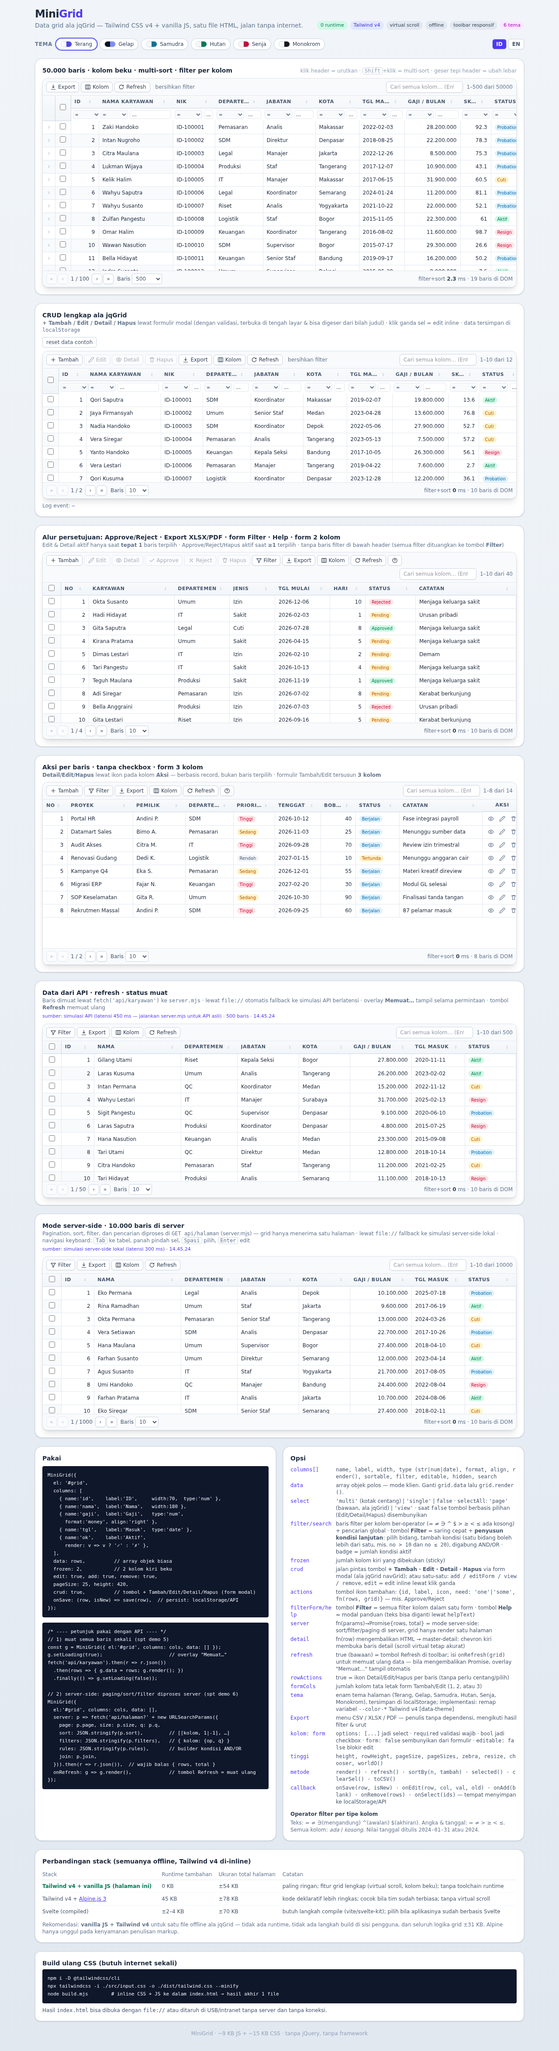
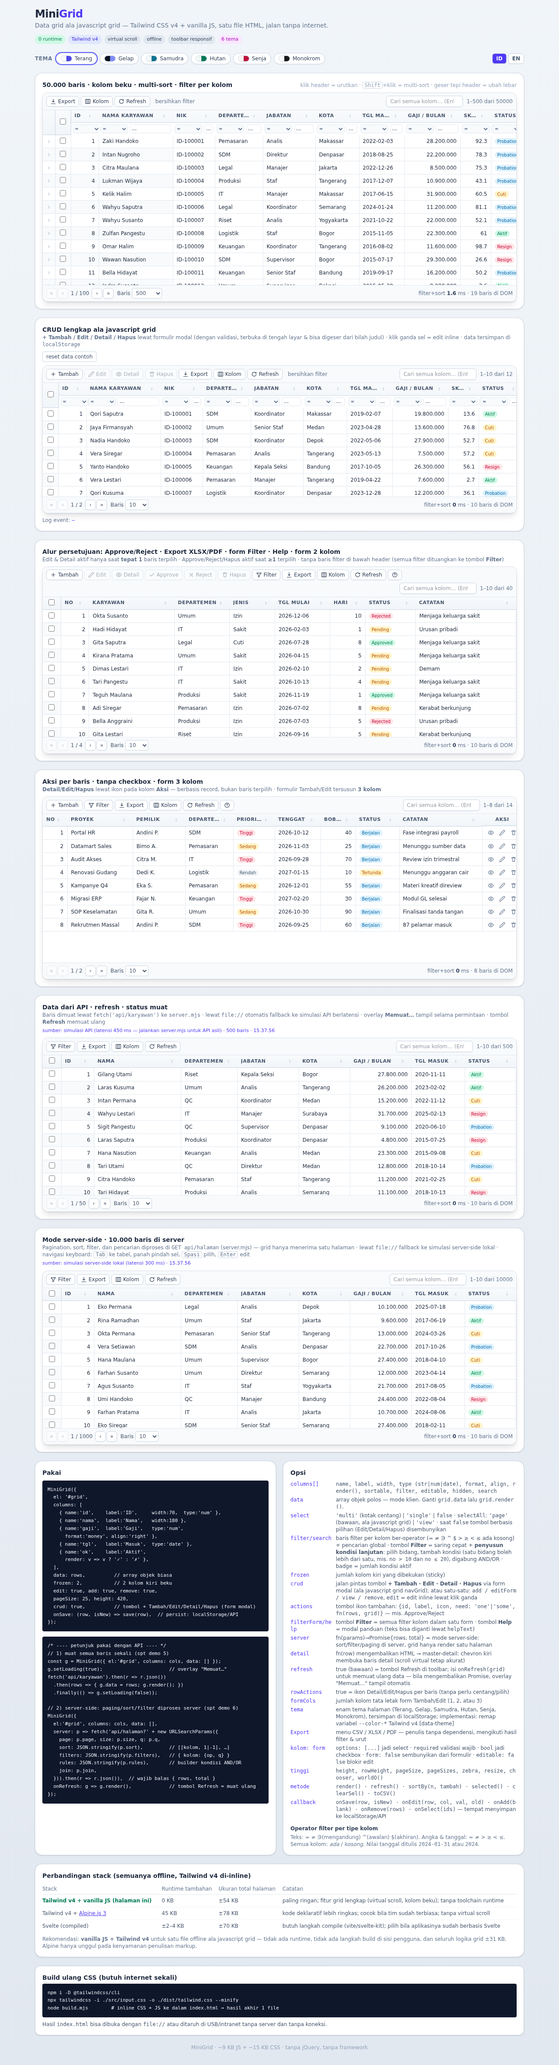
Ganti sebutan jqGrid menjadi javascript grid di seluruh UI, docs, README, dan tes

Changed region(s): [[0.0625, 0.0, 0.9375, 0.9646], [0.0625, 0.9024, 0.4375, 0.9646], [0.5312, 0.4979, 0.5938, 0.5912]]

diff --git a/index.html b/index.html
@@ -3,7 +3,7 @@
 <head>
 <meta charset="utf-8">
 <meta name="viewport" content="width=device-width, initial-scale=1">
-<title>MiniGrid — data grid offline ala jqGrid</title>
+<title>MiniGrid — data grid offline ala javascript grid</title>
 <!-- saat development pakai 2 file CSS; build.mjs meng-inline semuanya jadi 1 file offline -->
 <style>
 /*! tailwindcss v4.3.3 | MIT License | https://tailwindcss.com */
@@ -165,7 +165,7 @@ td.kb { box-shadow: inset 0 0 0 2px var(--color-indigo-600) !important; }
   <header class="flex flex-wrap items-end justify-between gap-3">
     <div>
       <h1 class="text-2xl font-extrabold tracking-tight">Mini<span class="text-indigo-600">Grid</span></h1>
-      <p data-i18n="sub" class="text-sm text-slate-500">Data grid ala jqGrid — Tailwind CSS v4 + vanilla JS, satu file HTML, jalan tanpa internet.</p>
+      <p data-i18n="sub" class="text-sm text-slate-500">Data grid ala javascript grid — Tailwind CSS v4 + vanilla JS, satu file HTML, jalan tanpa internet.</p>
     </div>
     <div class="flex flex-wrap gap-1.5 text-[11px]">
       <span class="rounded-full bg-emerald-100 px-2 py-0.5 font-medium text-emerald-700">0 runtime</span>
@@ -197,7 +197,7 @@ td.kb { box-shadow: inset 0 0 0 2px var(--color-indigo-600) !important; }
   <section class="rounded-2xl border border-slate-200 bg-white p-4 shadow-sm ring-1 ring-slate-900/5">
     <div class="mb-2 flex flex-wrap items-center justify-between gap-2">
       <div>
-        <h2 data-i18n="s2t" class="text-sm font-semibold">CRUD lengkap ala jqGrid</h2>
+        <h2 data-i18n="s2t" class="text-sm font-semibold">CRUD lengkap ala javascript grid</h2>
         <p data-i18n="s2d" class="text-xs text-slate-500"><b>+ Tambah / Edit / Detail / Hapus</b> lewat formulir modal (dengan validasi, terbuka di tengah layar & bisa digeser dari bilah judul) · klik ganda sel = edit inline · data tersimpan di <code>localStorage</code></p>
       </div>
       <button id="reset2" data-i18n="reset2" class="h-6 rounded border border-slate-300 bg-white px-2 text-xs text-slate-600 hover:bg-slate-100">reset data contoh</button>
@@ -287,10 +287,10 @@ MiniGrid({
       <dl class="space-y-1 text-xs break-words [&_code]:break-all">
         <div data-i18n="o_cols" class="flex gap-2"><dt class="w-24 shrink-0 font-mono text-indigo-600">columns[]</dt><dd class="text-slate-600">name, label, width, type (str|num|date), format, align, render(), sortable, filter, editable, hidden, search</dd></div>
         <div data-i18n="o_data" class="flex gap-2"><dt class="w-24 shrink-0 font-mono text-indigo-600">data</dt><dd class="text-slate-600">array objek — client-side. Ganti <code>grid.data</code> lalu <code>grid.render()</code>.</dd></div>
-        <div data-i18n="o_select" class="flex gap-2"><dt class="w-24 shrink-0 font-mono text-indigo-600">select</dt><dd class="text-slate-600">'multi' (checkbox) | 'single' | false · <code>selectAll</code>: 'page' (default, ala jqGrid) | 'view' · bila false, tombol berbasis seleksi (Edit/Detail/Hapus) disembunyikan</dd></div>
+        <div data-i18n="o_select" class="flex gap-2"><dt class="w-24 shrink-0 font-mono text-indigo-600">select</dt><dd class="text-slate-600">'multi' (checkbox) | 'single' | false · <code>selectAll</code>: 'page' (default, ala javascript grid) | 'view' · bila false, tombol berbasis seleksi (Edit/Detail/Hapus) disembunyikan</dd></div>
         <div data-i18n="o_filter" class="flex gap-2"><dt class="w-24 shrink-0 font-mono text-indigo-600">filter/search</dt><dd class="text-slate-600">baris filter beroperator (= ≠ ∋ ^ $ &gt; ≥ &lt; ≤ ada kosong) + pencarian global · tombol <b>Filter</b> = filter cepat + <b>builder kondisi lanjutan</b>: field dipilih, kondisi dapat ditambah (satu field boleh lebih dari satu, mis. <code>no &gt; 10</code> dan <code>no &le; 20</code>), digabung AND/OR, badge jumlah kondisi aktif</dd></div>
         <div data-i18n="o_frozen" class="flex gap-2"><dt class="w-24 shrink-0 font-mono text-indigo-600">frozen</dt><dd class="text-slate-600">jumlah kolom beku di kiri (sticky)</dd></div>
-        <div data-i18n="o_crud" class="flex gap-2"><dt class="w-24 shrink-0 font-mono text-indigo-600">crud</dt><dd class="text-slate-600">pintasan untuk tombol <b>+ Tambah · Edit · Detail · Hapus</b> berbasis formulir modal (navGrid ala jqGrid); atau satuan: <code>add / editForm / view / remove</code>, <code>edit</code> = edit inline via klik ganda</dd></div>
+        <div data-i18n="o_crud" class="flex gap-2"><dt class="w-24 shrink-0 font-mono text-indigo-600">crud</dt><dd class="text-slate-600">pintasan untuk tombol <b>+ Tambah · Edit · Detail · Hapus</b> berbasis formulir modal (navGrid ala javascript grid); atau satuan: <code>add / editForm / view / remove</code>, <code>edit</code> = edit inline via klik ganda</dd></div>
         <div data-i18n="o_actions" class="flex gap-2"><dt class="w-24 shrink-0 font-mono text-indigo-600">actions</dt><dd class="text-slate-600">tombol kustom berikon: <code>{id,label,icon,need:'one'|'some',fn(rows,grid)}</code> — mis. Approve/Reject</dd></div>
         <div data-i18n="o_ff" class="flex gap-2"><dt class="w-24 shrink-0 font-mono text-indigo-600">filterForm/help</dt><dd class="text-slate-600">tombol <b>Filter</b> = semua filter kolom dalam satu form · tombol <b>Help</b> = modal panduan (teks bisa diganti via <code>helpText</code>)</dd></div>
         <div data-i18n="o_server" class="flex gap-2"><dt class="w-24 shrink-0 font-mono text-indigo-600">server</dt><dd class="text-slate-600">fn(params)→Promise{rows,total} = mode server-side: sort/filter/paging di server, grid hanya merender satu halaman</dd></div>
@@ -322,7 +322,7 @@ MiniGrid({
         <tr><td data-i18n="cmpA3" class="py-1.5 pr-2">Svelte (compiled)</td><td class="pr-2">±2–4 KB</td><td class="pr-2">±70 KB</td><td>butuh langkah compile (vite/svelte-kit); pilih bila aplikasinya sudah berbasis Svelte</td></tr>
       </tbody>
     </table>
-    <p data-i18n="cmpR" class="mt-2 text-xs text-slate-500">Rekomendasi: <b>vanilla JS + Tailwind v4</b> untuk satu file offline ala jqGrid — tidak ada runtime, tidak ada langkah build di sisi pengguna, dan seluruh logika grid ±31 KB. Alpine hanya unggul pada kenyamanan penulisan markup.</p>
+    <p data-i18n="cmpR" class="mt-2 text-xs text-slate-500">Rekomendasi: <b>vanilla JS + Tailwind v4</b> untuk satu file offline ala javascript grid — tidak ada runtime, tidak ada langkah build di sisi pengguna, dan seluruh logika grid ±31 KB. Alpine hanya unggul pada kenyamanan penulisan markup.</p>
   </section>
 
   <section class="rounded-xl border border-slate-300 bg-white p-4 text-xs text-slate-600 shadow-sm">
@@ -338,7 +338,7 @@ node build.mjs        # inline CSS + JS ke dalam index.html → hasil akhir 1 fi
 
 <script>
 /* ============================================================================
- * minigrid.js — data grid ala jqGrid · vanilla JS · 0 dependency
+ * minigrid.js — data grid ala javascript grid · vanilla JS · 0 dependency
  * sort multi-kolom · filter per kolom beroperator · pencarian global · pager
  * virtual scroll · kolom beku · pilih baris · resize kolom · edit inline
  * tambah/hapus · pilih kolom · ekspor CSV
@@ -747,7 +747,7 @@ node build.mjs        # inline CSS + JS ke dalam index.html → hasil akhir 1 fi
     var self = this, s = this.s;
     var all = this.r.head.querySelector('[data-role=all]');
     if (all) all.onchange = function () {
-      /* 'page' = baris di halaman aktif saja (ala jqGrid), 'view' = semua hasil filter */
+      /* 'page' = baris di halaman aktif saja (ala javascript grid), 'view' = semua hasil filter */
       var list = self.o.selectAll === 'view' ? self.view : self.pageRows;
       if (all.checked) list.forEach(function (r, i) { s.sel.add(self.idOf(r, i)); });
       else list.forEach(function (r, i) { s.sel.delete(self.idOf(r, i)); });
@@ -2216,11 +2216,11 @@ node build.mjs        # inline CSS + JS ke dalam index.html → hasil akhir 1 fi
 
   /* ---- dua bahasa: ID / EN (tersimpan di localStorage) ---- */
   var PAGE = {
-    sub: { id: `Data grid ala jqGrid — Tailwind CSS v4 + vanilla JS, satu file HTML, jalan tanpa internet.`, en: `A jqGrid-style data grid — Tailwind CSS v4 + vanilla JS, single HTML file, runs offline.` },
+    sub: { id: `Data grid ala javascript grid — Tailwind CSS v4 + vanilla JS, satu file HTML, jalan tanpa internet.`, en: `A javascript grid-style data grid — Tailwind CSS v4 + vanilla JS, single HTML file, runs offline.` },
     theme: { id: `Tema`, en: `Theme` },
     s1t: { id: `50.000 baris · kolom beku · multi-sort · filter per kolom`, en: `50,000 rows · frozen columns · multi-sort · per-column filters` },
     s1d: { id: `klik header = urutkan · <kbd class="rounded border border-slate-300 px-1">Shift</kbd>+klik = multi-sort · geser tepi header = ubah lebar`, en: `click a header = sort · <kbd class="rounded border border-slate-300 px-1">Shift</kbd>+click = multi-sort · drag the header edge = resize` },
-    s2t: { id: `CRUD lengkap ala jqGrid`, en: `Full jqGrid-style CRUD` },
+    s2t: { id: `CRUD lengkap ala javascript grid`, en: `Full javascript grid-style CRUD` },
     s2d: { id: `<b>+ Tambah / Edit / Detail / Hapus</b> lewat formulir modal (dengan validasi, terbuka di tengah layar & bisa digeser dari bilah judul) · klik ganda sel = edit inline · data tersimpan di <code>localStorage</code>`, en: `<b>+ Add / Edit / View / Delete</b> via modal forms (validated, centered, draggable by the title bar) · double-click a cell = inline edit · data persisted in <code>localStorage</code>` },
     reset2: { id: `reset data contoh`, en: `reset sample data` },
     s3t: { id: `Alur persetujuan: Approve/Reject · Export XLSX/PDF · form Filter · Help · form 2 kolom`, en: `Approval flow: Approve/Reject · XLSX/PDF export · Filter form · Help · 2-column form` },
@@ -2235,10 +2235,10 @@ node build.mjs        # inline CSS + JS ke dalam index.html → hasil akhir 1 fi
     dOpsi: { id: `Opsi`, en: `Options` },
     o_cols: { id: `<dt class="w-24 shrink-0 font-mono text-indigo-600">columns[]</dt><dd class="text-slate-600"><code>name, label, width, type (str|num|date), format, align, render(), sortable, filter, editable, hidden, search</code></dd>`, en: `<dt class="w-24 shrink-0 font-mono text-indigo-600">columns[]</dt><dd class="text-slate-600"><code>name, label, width, type (str|num|date), format, align, render(), sortable, filter, editable, hidden, search</code></dd>` },
     o_data: { id: `<dt class="w-24 shrink-0 font-mono text-indigo-600">data</dt><dd class="text-slate-600">array objek polos — mode klien. Ganti <code>grid.data</code> lalu <code>grid.render()</code>.</dd>`, en: `<dt class="w-24 shrink-0 font-mono text-indigo-600">data</dt><dd class="text-slate-600">plain array of objects — client mode. Replace <code>grid.data</code> then <code>grid.render()</code>.</dd>` },
-    o_select: { id: `<dt class="w-24 shrink-0 font-mono text-indigo-600">select</dt><dd class="text-slate-600"><code>'multi'</code> (kotak centang) | <code>'single'</code> | <code>false</code> · <code>selectAll</code>: <code>'page'</code> (bawaan, ala jqGrid) | <code>'view'</code> · saat <code>false</code> tombol berbasis pilihan (Edit/Detail/Hapus) disembunyikan</dd>`, en: `<dt class="w-24 shrink-0 font-mono text-indigo-600">select</dt><dd class="text-slate-600"><code>'multi'</code> (checkboxes) | <code>'single'</code> | <code>false</code> · <code>selectAll</code>: <code>'page'</code> (default, jqGrid-style) | <code>'view'</code> · when <code>false</code>, selection-based buttons (Edit/View/Delete) are hidden</dd>` },
+    o_select: { id: `<dt class="w-24 shrink-0 font-mono text-indigo-600">select</dt><dd class="text-slate-600"><code>'multi'</code> (kotak centang) | <code>'single'</code> | <code>false</code> · <code>selectAll</code>: <code>'page'</code> (bawaan, ala javascript grid) | <code>'view'</code> · saat <code>false</code> tombol berbasis pilihan (Edit/Detail/Hapus) disembunyikan</dd>`, en: `<dt class="w-24 shrink-0 font-mono text-indigo-600">select</dt><dd class="text-slate-600"><code>'multi'</code> (checkboxes) | <code>'single'</code> | <code>false</code> · <code>selectAll</code>: <code>'page'</code> (default, javascript grid-style) | <code>'view'</code> · when <code>false</code>, selection-based buttons (Edit/View/Delete) are hidden</dd>` },
     o_filter: { id: `<dt class="w-24 shrink-0 font-mono text-indigo-600">filter/search</dt><dd class="text-slate-600">baris filter per kolom ber-operator (= ≠ ∋ ^ $ &gt; ≥ &lt; ≤ ada kosong) + pencarian global · tombol <b>Filter</b> = saring cepat + <b>penyusun kondisi lanjutan</b>: pilih bidang, tambah kondisi (satu bidang boleh lebih dari satu, mis. <code>no &gt; 10</code> dan <code>no ≤ 20</code>), digabung AND/OR · badge = jumlah kondisi aktif</dd>`, en: `<dt class="w-24 shrink-0 font-mono text-indigo-600">filter/search</dt><dd class="text-slate-600">operator filter row per column (= ≠ ∋ ^ $ &gt; ≥ &lt; ≤ present empty) + global search · <b>Filter</b> button = quick filters + <b>advanced condition builder</b>: pick a field, add conditions (a field may appear twice, e.g. <code>no &gt; 10</code> and <code>no ≤ 20</code>), joined with AND/OR · badge = active condition count</dd>` },
     o_frozen: { id: `<dt class="w-24 shrink-0 font-mono text-indigo-600">frozen</dt><dd class="text-slate-600">jumlah kolom kiri yang dibekukan (sticky)</dd>`, en: `<dt class="w-24 shrink-0 font-mono text-indigo-600">frozen</dt><dd class="text-slate-600">number of frozen (sticky) columns on the left</dd>` },
-    o_crud: { id: `<dt class="w-24 shrink-0 font-mono text-indigo-600">crud</dt><dd class="text-slate-600">jalan pintas tombol <b>+ Tambah · Edit · Detail · Hapus</b> via form modal (ala jqGrid navGrid); atau satu-satu: <code>add / editForm / view / remove</code>, <code>edit</code> = edit inline lewat klik ganda</dd>`, en: `<dt class="w-24 shrink-0 font-mono text-indigo-600">crud</dt><dd class="text-slate-600">shortcut for <b>+ Add · Edit · View · Delete</b> buttons via modal forms (jqGrid navGrid-style); or individually: <code>add / editForm / view / remove</code>, <code>edit</code> = inline edit via double-click</dd>` },
+    o_crud: { id: `<dt class="w-24 shrink-0 font-mono text-indigo-600">crud</dt><dd class="text-slate-600">jalan pintas tombol <b>+ Tambah · Edit · Detail · Hapus</b> via form modal (ala javascript grid navGrid); atau satu-satu: <code>add / editForm / view / remove</code>, <code>edit</code> = edit inline lewat klik ganda</dd>`, en: `<dt class="w-24 shrink-0 font-mono text-indigo-600">crud</dt><dd class="text-slate-600">shortcut for <b>+ Add · Edit · View · Delete</b> buttons via modal forms (javascript grid navGrid-style); or individually: <code>add / editForm / view / remove</code>, <code>edit</code> = inline edit via double-click</dd>` },
     o_actions: { id: `<dt class="w-24 shrink-0 font-mono text-indigo-600">actions</dt><dd class="text-slate-600">tombol ikon tambahan: <code>{id, label, icon, need: 'one'|'some', fn(rows, grid)}</code> — mis. Approve/Reject</dd>`, en: `<dt class="w-24 shrink-0 font-mono text-indigo-600">actions</dt><dd class="text-slate-600">extra icon buttons: <code>{id, label, icon, need: 'one'|'some', fn(rows, grid)}</code> — e.g. Approve/Reject</dd>` },
     o_ff: { id: `<dt class="w-24 shrink-0 font-mono text-indigo-600">filterForm/help</dt><dd class="text-slate-600">tombol <b>Filter</b> = semua filter kolom dalam satu form · tombol <b>Help</b> = modal panduan (teks bisa diganti lewat <code>helpText</code>)</dd>`, en: `<dt class="w-24 shrink-0 font-mono text-indigo-600">filterForm/help</dt><dd class="text-slate-600"><b>Filter</b> button = every column filter in one form · <b>Help</b> button = guide modal (replace the text via <code>helpText</code>)</dd>` },
     o_refresh: { id: `<dt class="w-24 shrink-0 font-mono text-indigo-600">refresh</dt><dd class="text-slate-600">true (bawaan) = tombol Refresh di toolbar; isi <code>onRefresh(grid)</code> untuk memuat ulang data — bila mengembalikan Promise, overlay "Memuat…" tampil otomatis</dd>`, en: `<dt class="w-24 shrink-0 font-mono text-indigo-600">refresh</dt><dd class="text-slate-600">true (default) = toolbar Refresh button; provide <code>onRefresh(grid)</code> to reload — return a Promise and the "Loading…" overlay shows automatically</dd>` },
@@ -2262,7 +2262,7 @@ node build.mjs        # inline CSS + JS ke dalam index.html → hasil akhir 1 fi
     cmpA1: { id: `Tailwind v4 + vanilla JS (halaman ini)`, en: `Tailwind v4 + vanilla JS (this page)` },
     cmpA2: { id: `Tailwind v4 + <a class="text-indigo-600 underline" href="./alpine.html">Alpine.js 3</a>`, en: `Tailwind v4 + <a class="text-indigo-600 underline" href="./alpine.html">Alpine.js 3</a>` },
     cmpA3: { id: `Svelte (compiled)`, en: `Svelte (compiled)` },
-    cmpR: { id: `Rekomendasi: <b>vanilla JS + Tailwind v4</b> untuk satu file offline ala jqGrid — tidak ada runtime, tidak ada langkah build di sisi pengguna, dan seluruh logika grid ±31 KB. Alpine hanya unggul pada kenyamanan penulisan markup.`, en: `Recommendation: <b>vanilla JS + Tailwind v4</b> for a jqGrid-style offline single file — no runtime, no user-side build step, and the entire grid logic is ±31 KB. Alpine only wins on markup-writing comfort.` },
+    cmpR: { id: `Rekomendasi: <b>vanilla JS + Tailwind v4</b> untuk satu file offline ala javascript grid — tidak ada runtime, tidak ada langkah build di sisi pengguna, dan seluruh logika grid ±31 KB. Alpine hanya unggul pada kenyamanan penulisan markup.`, en: `Recommendation: <b>vanilla JS + Tailwind v4</b> for a javascript grid-style offline single file — no runtime, no user-side build step, and the entire grid logic is ±31 KB. Alpine only wins on markup-writing comfort.` },
     bT: { id: `Build ulang CSS (butuh internet sekali)`, en: `Rebuilding the CSS (needs internet once)` },
     bD: { id: `Hasil <code>index.html</code> bisa dibuka dengan <code>file://</code> atau ditaruh di USB/intranet tanpa server dan tanpa koneksi.`, en: `The resulting <code>index.html</code> opens via <code>file://</code> or can live on a USB stick/intranet with no server and no connection.` },
     foot: { id: `MiniGrid · ~9 KB JS + ~15 KB CSS · tanpa jQuery, tanpa framework`, en: `MiniGrid · ~9 KB JS + ~15 KB CSS · no jQuery, no framework` }

diff --git a/src/demo.js b/src/demo.js
@@ -420,11 +420,11 @@
 
   /* ---- dua bahasa: ID / EN (tersimpan di localStorage) ---- */
   var PAGE = {
-    sub: { id: `Data grid ala jqGrid — Tailwind CSS v4 + vanilla JS, satu file HTML, jalan tanpa internet.`, en: `A jqGrid-style data grid — Tailwind CSS v4 + vanilla JS, single HTML file, runs offline.` },
+    sub: { id: `Data grid ala javascript grid — Tailwind CSS v4 + vanilla JS, satu file HTML, jalan tanpa internet.`, en: `A javascript grid-style data grid — Tailwind CSS v4 + vanilla JS, single HTML file, runs offline.` },
     theme: { id: `Tema`, en: `Theme` },
     s1t: { id: `50.000 baris · kolom beku · multi-sort · filter per kolom`, en: `50,000 rows · frozen columns · multi-sort · per-column filters` },
     s1d: { id: `klik header = urutkan · <kbd class="rounded border border-slate-300 px-1">Shift</kbd>+klik = multi-sort · geser tepi header = ubah lebar`, en: `click a header = sort · <kbd class="rounded border border-slate-300 px-1">Shift</kbd>+click = multi-sort · drag the header edge = resize` },
-    s2t: { id: `CRUD lengkap ala jqGrid`, en: `Full jqGrid-style CRUD` },
+    s2t: { id: `CRUD lengkap ala javascript grid`, en: `Full javascript grid-style CRUD` },
     s2d: { id: `<b>+ Tambah / Edit / Detail / Hapus</b> lewat formulir modal (dengan validasi, terbuka di tengah layar & bisa digeser dari bilah judul) · klik ganda sel = edit inline · data tersimpan di <code>localStorage</code>`, en: `<b>+ Add / Edit / View / Delete</b> via modal forms (validated, centered, draggable by the title bar) · double-click a cell = inline edit · data persisted in <code>localStorage</code>` },
     reset2: { id: `reset data contoh`, en: `reset sample data` },
     s3t: { id: `Alur persetujuan: Approve/Reject · Export XLSX/PDF · form Filter · Help · form 2 kolom`, en: `Approval flow: Approve/Reject · XLSX/PDF export · Filter form · Help · 2-column form` },
@@ -439,10 +439,10 @@
     dOpsi: { id: `Opsi`, en: `Options` },
     o_cols: { id: `<dt class="w-24 shrink-0 font-mono text-indigo-600">columns[]</dt><dd class="text-slate-600"><code>name, label, width, type (str|num|date), format, align, render(), sortable, filter, editable, hidden, search</code></dd>`, en: `<dt class="w-24 shrink-0 font-mono text-indigo-600">columns[]</dt><dd class="text-slate-600"><code>name, label, width, type (str|num|date), format, align, render(), sortable, filter, editable, hidden, search</code></dd>` },
     o_data: { id: `<dt class="w-24 shrink-0 font-mono text-indigo-600">data</dt><dd class="text-slate-600">array objek polos — mode klien. Ganti <code>grid.data</code> lalu <code>grid.render()</code>.</dd>`, en: `<dt class="w-24 shrink-0 font-mono text-indigo-600">data</dt><dd class="text-slate-600">plain array of objects — client mode. Replace <code>grid.data</code> then <code>grid.render()</code>.</dd>` },
-    o_select: { id: `<dt class="w-24 shrink-0 font-mono text-indigo-600">select</dt><dd class="text-slate-600"><code>'multi'</code> (kotak centang) | <code>'single'</code> | <code>false</code> · <code>selectAll</code>: <code>'page'</code> (bawaan, ala jqGrid) | <code>'view'</code> · saat <code>false</code> tombol berbasis pilihan (Edit/Detail/Hapus) disembunyikan</dd>`, en: `<dt class="w-24 shrink-0 font-mono text-indigo-600">select</dt><dd class="text-slate-600"><code>'multi'</code> (checkboxes) | <code>'single'</code> | <code>false</code> · <code>selectAll</code>: <code>'page'</code> (default, jqGrid-style) | <code>'view'</code> · when <code>false</code>, selection-based buttons (Edit/View/Delete) are hidden</dd>` },
+    o_select: { id: `<dt class="w-24 shrink-0 font-mono text-indigo-600">select</dt><dd class="text-slate-600"><code>'multi'</code> (kotak centang) | <code>'single'</code> | <code>false</code> · <code>selectAll</code>: <code>'page'</code> (bawaan, ala javascript grid) | <code>'view'</code> · saat <code>false</code> tombol berbasis pilihan (Edit/Detail/Hapus) disembunyikan</dd>`, en: `<dt class="w-24 shrink-0 font-mono text-indigo-600">select</dt><dd class="text-slate-600"><code>'multi'</code> (checkboxes) | <code>'single'</code> | <code>false</code> · <code>selectAll</code>: <code>'page'</code> (default, javascript grid-style) | <code>'view'</code> · when <code>false</code>, selection-based buttons (Edit/View/Delete) are hidden</dd>` },
     o_filter: { id: `<dt class="w-24 shrink-0 font-mono text-indigo-600">filter/search</dt><dd class="text-slate-600">baris filter per kolom ber-operator (= ≠ ∋ ^ $ &gt; ≥ &lt; ≤ ada kosong) + pencarian global · tombol <b>Filter</b> = saring cepat + <b>penyusun kondisi lanjutan</b>: pilih bidang, tambah kondisi (satu bidang boleh lebih dari satu, mis. <code>no &gt; 10</code> dan <code>no ≤ 20</code>), digabung AND/OR · badge = jumlah kondisi aktif</dd>`, en: `<dt class="w-24 shrink-0 font-mono text-indigo-600">filter/search</dt><dd class="text-slate-600">operator filter row per column (= ≠ ∋ ^ $ &gt; ≥ &lt; ≤ present empty) + global search · <b>Filter</b> button = quick filters + <b>advanced condition builder</b>: pick a field, add conditions (a field may appear twice, e.g. <code>no &gt; 10</code> and <code>no ≤ 20</code>), joined with AND/OR · badge = active condition count</dd>` },
     o_frozen: { id: `<dt class="w-24 shrink-0 font-mono text-indigo-600">frozen</dt><dd class="text-slate-600">jumlah kolom kiri yang dibekukan (sticky)</dd>`, en: `<dt class="w-24 shrink-0 font-mono text-indigo-600">frozen</dt><dd class="text-slate-600">number of frozen (sticky) columns on the left</dd>` },
-    o_crud: { id: `<dt class="w-24 shrink-0 font-mono text-indigo-600">crud</dt><dd class="text-slate-600">jalan pintas tombol <b>+ Tambah · Edit · Detail · Hapus</b> via form modal (ala jqGrid navGrid); atau satu-satu: <code>add / editForm / view / remove</code>, <code>edit</code> = edit inline lewat klik ganda</dd>`, en: `<dt class="w-24 shrink-0 font-mono text-indigo-600">crud</dt><dd class="text-slate-600">shortcut for <b>+ Add · Edit · View · Delete</b> buttons via modal forms (jqGrid navGrid-style); or individually: <code>add / editForm / view / remove</code>, <code>edit</code> = inline edit via double-click</dd>` },
+    o_crud: { id: `<dt class="w-24 shrink-0 font-mono text-indigo-600">crud</dt><dd class="text-slate-600">jalan pintas tombol <b>+ Tambah · Edit · Detail · Hapus</b> via form modal (ala javascript grid navGrid); atau satu-satu: <code>add / editForm / view / remove</code>, <code>edit</code> = edit inline lewat klik ganda</dd>`, en: `<dt class="w-24 shrink-0 font-mono text-indigo-600">crud</dt><dd class="text-slate-600">shortcut for <b>+ Add · Edit · View · Delete</b> buttons via modal forms (javascript grid navGrid-style); or individually: <code>add / editForm / view / remove</code>, <code>edit</code> = inline edit via double-click</dd>` },
     o_actions: { id: `<dt class="w-24 shrink-0 font-mono text-indigo-600">actions</dt><dd class="text-slate-600">tombol ikon tambahan: <code>{id, label, icon, need: 'one'|'some', fn(rows, grid)}</code> — mis. Approve/Reject</dd>`, en: `<dt class="w-24 shrink-0 font-mono text-indigo-600">actions</dt><dd class="text-slate-600">extra icon buttons: <code>{id, label, icon, need: 'one'|'some', fn(rows, grid)}</code> — e.g. Approve/Reject</dd>` },
     o_ff: { id: `<dt class="w-24 shrink-0 font-mono text-indigo-600">filterForm/help</dt><dd class="text-slate-600">tombol <b>Filter</b> = semua filter kolom dalam satu form · tombol <b>Help</b> = modal panduan (teks bisa diganti lewat <code>helpText</code>)</dd>`, en: `<dt class="w-24 shrink-0 font-mono text-indigo-600">filterForm/help</dt><dd class="text-slate-600"><b>Filter</b> button = every column filter in one form · <b>Help</b> button = guide modal (replace the text via <code>helpText</code>)</dd>` },
     o_refresh: { id: `<dt class="w-24 shrink-0 font-mono text-indigo-600">refresh</dt><dd class="text-slate-600">true (bawaan) = tombol Refresh di toolbar; isi <code>onRefresh(grid)</code> untuk memuat ulang data — bila mengembalikan Promise, overlay "Memuat…" tampil otomatis</dd>`, en: `<dt class="w-24 shrink-0 font-mono text-indigo-600">refresh</dt><dd class="text-slate-600">true (default) = toolbar Refresh button; provide <code>onRefresh(grid)</code> to reload — return a Promise and the "Loading…" overlay shows automatically</dd>` },
@@ -466,7 +466,7 @@
     cmpA1: { id: `Tailwind v4 + vanilla JS (halaman ini)`, en: `Tailwind v4 + vanilla JS (this page)` },
     cmpA2: { id: `Tailwind v4 + <a class="text-indigo-600 underline" href="./alpine.html">Alpine.js 3</a>`, en: `Tailwind v4 + <a class="text-indigo-600 underline" href="./alpine.html">Alpine.js 3</a>` },
     cmpA3: { id: `Svelte (compiled)`, en: `Svelte (compiled)` },
-    cmpR: { id: `Rekomendasi: <b>vanilla JS + Tailwind v4</b> untuk satu file offline ala jqGrid — tidak ada runtime, tidak ada langkah build di sisi pengguna, dan seluruh logika grid ±31 KB. Alpine hanya unggul pada kenyamanan penulisan markup.`, en: `Recommendation: <b>vanilla JS + Tailwind v4</b> for a jqGrid-style offline single file — no runtime, no user-side build step, and the entire grid logic is ±31 KB. Alpine only wins on markup-writing comfort.` },
+    cmpR: { id: `Rekomendasi: <b>vanilla JS + Tailwind v4</b> untuk satu file offline ala javascript grid — tidak ada runtime, tidak ada langkah build di sisi pengguna, dan seluruh logika grid ±31 KB. Alpine hanya unggul pada kenyamanan penulisan markup.`, en: `Recommendation: <b>vanilla JS + Tailwind v4</b> for a javascript grid-style offline single file — no runtime, no user-side build step, and the entire grid logic is ±31 KB. Alpine only wins on markup-writing comfort.` },
     bT: { id: `Build ulang CSS (butuh internet sekali)`, en: `Rebuilding the CSS (needs internet once)` },
     bD: { id: `Hasil <code>index.html</code> bisa dibuka dengan <code>file://</code> atau ditaruh di USB/intranet tanpa server dan tanpa koneksi.`, en: `The resulting <code>index.html</code> opens via <code>file://</code> or can live on a USB stick/intranet with no server and no connection.` },
     foot: { id: `MiniGrid · ~9 KB JS + ~15 KB CSS · tanpa jQuery, tanpa framework`, en: `MiniGrid · ~9 KB JS + ~15 KB CSS · no jQuery, no framework` }

diff --git a/src/index.html b/src/index.html
@@ -3,7 +3,7 @@
 <head>
 <meta charset="utf-8">
 <meta name="viewport" content="width=device-width, initial-scale=1">
-<title>MiniGrid — data grid offline ala jqGrid</title>
+<title>MiniGrid — data grid offline ala javascript grid</title>
 <!-- saat development pakai 2 file CSS; build.mjs meng-inline semuanya jadi 1 file offline -->
 <link rel="stylesheet" href="./dist/tailwind.css">
 <link rel="stylesheet" href="./src/app.css">
@@ -15,7 +15,7 @@
   <header class="flex flex-wrap items-end justify-between gap-3">
     <div>
       <h1 class="text-2xl font-extrabold tracking-tight">Mini<span class="text-indigo-600">Grid</span></h1>
-      <p data-i18n="sub" class="text-sm text-slate-500">Data grid ala jqGrid — Tailwind CSS v4 + vanilla JS, satu file HTML, jalan tanpa internet.</p>
+      <p data-i18n="sub" class="text-sm text-slate-500">Data grid ala javascript grid — Tailwind CSS v4 + vanilla JS, satu file HTML, jalan tanpa internet.</p>
     </div>
     <div class="flex flex-wrap gap-1.5 text-[11px]">
       <span class="rounded-full bg-emerald-100 px-2 py-0.5 font-medium text-emerald-700">0 runtime</span>
@@ -47,7 +47,7 @@
   <section class="rounded-2xl border border-slate-200 bg-white p-4 shadow-sm ring-1 ring-slate-900/5">
     <div class="mb-2 flex flex-wrap items-center justify-between gap-2">
       <div>
-        <h2 data-i18n="s2t" class="text-sm font-semibold">CRUD lengkap ala jqGrid</h2>
+        <h2 data-i18n="s2t" class="text-sm font-semibold">CRUD lengkap ala javascript grid</h2>
         <p data-i18n="s2d" class="text-xs text-slate-500"><b>+ Tambah / Edit / Detail / Hapus</b> lewat formulir modal (dengan validasi, terbuka di tengah layar & bisa digeser dari bilah judul) · klik ganda sel = edit inline · data tersimpan di <code>localStorage</code></p>
       </div>
       <button id="reset2" data-i18n="reset2" class="h-6 rounded border border-slate-300 bg-white px-2 text-xs text-slate-600 hover:bg-slate-100">reset data contoh</button>
@@ -137,10 +137,10 @@ MiniGrid({
       <dl class="space-y-1 text-xs break-words [&_code]:break-all">
         <div data-i18n="o_cols" class="flex gap-2"><dt class="w-24 shrink-0 font-mono text-indigo-600">columns[]</dt><dd class="text-slate-600">name, label, width, type (str|num|date), format, align, render(), sortable, filter, editable, hidden, search</dd></div>
         <div data-i18n="o_data" class="flex gap-2"><dt class="w-24 shrink-0 font-mono text-indigo-600">data</dt><dd class="text-slate-600">array objek — client-side. Ganti <code>grid.data</code> lalu <code>grid.render()</code>.</dd></div>
-        <div data-i18n="o_select" class="flex gap-2"><dt class="w-24 shrink-0 font-mono text-indigo-600">select</dt><dd class="text-slate-600">'multi' (checkbox) | 'single' | false · <code>selectAll</code>: 'page' (default, ala jqGrid) | 'view' · bila false, tombol berbasis seleksi (Edit/Detail/Hapus) disembunyikan</dd></div>
+        <div data-i18n="o_select" class="flex gap-2"><dt class="w-24 shrink-0 font-mono text-indigo-600">select</dt><dd class="text-slate-600">'multi' (checkbox) | 'single' | false · <code>selectAll</code>: 'page' (default, ala javascript grid) | 'view' · bila false, tombol berbasis seleksi (Edit/Detail/Hapus) disembunyikan</dd></div>
         <div data-i18n="o_filter" class="flex gap-2"><dt class="w-24 shrink-0 font-mono text-indigo-600">filter/search</dt><dd class="text-slate-600">baris filter beroperator (= ≠ ∋ ^ $ &gt; ≥ &lt; ≤ ada kosong) + pencarian global · tombol <b>Filter</b> = filter cepat + <b>builder kondisi lanjutan</b>: field dipilih, kondisi dapat ditambah (satu field boleh lebih dari satu, mis. <code>no &gt; 10</code> dan <code>no &le; 20</code>), digabung AND/OR, badge jumlah kondisi aktif</dd></div>
         <div data-i18n="o_frozen" class="flex gap-2"><dt class="w-24 shrink-0 font-mono text-indigo-600">frozen</dt><dd class="text-slate-600">jumlah kolom beku di kiri (sticky)</dd></div>
-        <div data-i18n="o_crud" class="flex gap-2"><dt class="w-24 shrink-0 font-mono text-indigo-600">crud</dt><dd class="text-slate-600">pintasan untuk tombol <b>+ Tambah · Edit · Detail · Hapus</b> berbasis formulir modal (navGrid ala jqGrid); atau satuan: <code>add / editForm / view / remove</code>, <code>edit</code> = edit inline via klik ganda</dd></div>
+        <div data-i18n="o_crud" class="flex gap-2"><dt class="w-24 shrink-0 font-mono text-indigo-600">crud</dt><dd class="text-slate-600">pintasan untuk tombol <b>+ Tambah · Edit · Detail · Hapus</b> berbasis formulir modal (navGrid ala javascript grid); atau satuan: <code>add / editForm / view / remove</code>, <code>edit</code> = edit inline via klik ganda</dd></div>
         <div data-i18n="o_actions" class="flex gap-2"><dt class="w-24 shrink-0 font-mono text-indigo-600">actions</dt><dd class="text-slate-600">tombol kustom berikon: <code>{id,label,icon,need:'one'|'some',fn(rows,grid)}</code> — mis. Approve/Reject</dd></div>
         <div data-i18n="o_ff" class="flex gap-2"><dt class="w-24 shrink-0 font-mono text-indigo-600">filterForm/help</dt><dd class="text-slate-600">tombol <b>Filter</b> = semua filter kolom dalam satu form · tombol <b>Help</b> = modal panduan (teks bisa diganti via <code>helpText</code>)</dd></div>
         <div data-i18n="o_server" class="flex gap-2"><dt class="w-24 shrink-0 font-mono text-indigo-600">server</dt><dd class="text-slate-600">fn(params)→Promise{rows,total} = mode server-side: sort/filter/paging di server, grid hanya merender satu halaman</dd></div>
@@ -172,7 +172,7 @@ MiniGrid({
         <tr><td data-i18n="cmpA3" class="py-1.5 pr-2">Svelte (compiled)</td><td class="pr-2">±2–4 KB</td><td class="pr-2">±70 KB</td><td>butuh langkah compile (vite/svelte-kit); pilih bila aplikasinya sudah berbasis Svelte</td></tr>
       </tbody>
     </table>
-    <p data-i18n="cmpR" class="mt-2 text-xs text-slate-500">Rekomendasi: <b>vanilla JS + Tailwind v4</b> untuk satu file offline ala jqGrid — tidak ada runtime, tidak ada langkah build di sisi pengguna, dan seluruh logika grid ±31 KB. Alpine hanya unggul pada kenyamanan penulisan markup.</p>
+    <p data-i18n="cmpR" class="mt-2 text-xs text-slate-500">Rekomendasi: <b>vanilla JS + Tailwind v4</b> untuk satu file offline ala javascript grid — tidak ada runtime, tidak ada langkah build di sisi pengguna, dan seluruh logika grid ±31 KB. Alpine hanya unggul pada kenyamanan penulisan markup.</p>
   </section>
 
   <section class="rounded-xl border border-slate-300 bg-white p-4 text-xs text-slate-600 shadow-sm">

diff --git a/src/grid.js b/src/grid.js
@@ -1,5 +1,5 @@
 /* ============================================================================
- * minigrid.js — data grid ala jqGrid · vanilla JS · 0 dependency
+ * minigrid.js — data grid ala javascript grid · vanilla JS · 0 dependency
  * sort multi-kolom · filter per kolom beroperator · pencarian global · pager
  * virtual scroll · kolom beku · pilih baris · resize kolom · edit inline
  * tambah/hapus · pilih kolom · ekspor CSV
@@ -408,7 +408,7 @@
     var self = this, s = this.s;
     var all = this.r.head.querySelector('[data-role=all]');
     if (all) all.onchange = function () {
-      /* 'page' = baris di halaman aktif saja (ala jqGrid), 'view' = semua hasil filter */
+      /* 'page' = baris di halaman aktif saja (ala javascript grid), 'view' = semua hasil filter */
       var list = self.o.selectAll === 'view' ? self.view : self.pageRows;
       if (all.checked) list.forEach(function (r, i) { s.sel.add(self.idOf(r, i)); });
       else list.forEach(function (r, i) { s.sel.delete(self.idOf(r, i)); });

diff --git a/README.md b/README.md
@@ -1,8 +1,8 @@
-# MiniGrid — data grid offline ala jqGrid
+# MiniGrid — data grid offline ala javascript grid
 
 Grid data lengkap dalam **satu file HTML** yang berjalan 100% offline (bisa dibuka lewat
 `file://`, USB, atau intranet tanpa server). Styling **Tailwind CSS v4** (hasil build
-di-inline), logika **vanilla JS tanpa runtime** — lebih ringan daripada jqGrid (tanpa
+di-inline), logika **vanilla JS tanpa runtime** — lebih ringan daripada javascript grid (tanpa
 jQuery) maupun Svelte/Alpine untuk kasus "satu file".
 
 ## Varian
@@ -23,7 +23,7 @@ native via `color-scheme`) berganti konsisten tanpa duplikasi CSS.
 ## Fitur (varian utama)
 
 - **Sort multi-kolom** — klik header; `Shift`+klik menambah kunci urut (badge angka).
-- **Filter per kolom beroperator** — `= ≠ ∋ ^ $ > ≥ < ≤ ada kosong` (jqGrid-style search row).
+- **Filter per kolom beroperator** — `= ≠ ∋ ^ $ > ≥ < ≤ ada kosong` (javascript grid-style search row).
 - **Builder kondisi lanjutan** (tombol Filter) — field dipilih dari dropdown, kondisi dapat
   **ditambah** bebas (satu field boleh beberapa, mis. `no > 10` DAN `no <= 20`),
   digabung **AND/OR**, dilengkapi badge jumlah kondisi aktif.
@@ -35,7 +35,7 @@ native via `color-scheme`) berganti konsisten tanpa duplikasi CSS.
 - **Resize kolom** — geser tepi kanan header.
 - **Modal dapat digeser** — Tambah/Detail/Edit/Filter/Bantuan terbuka di tengah layar; seret bilah judulnya untuk memindahkan (mouse & sentuh).
 - **Edit inline** — klik ganda sel; Enter/Tab simpan, Esc batal.
-- **CRUD lengkap ala jqGrid (navGrid)** — tombol `+ Tambah · Edit · Detail · Hapus`
+- **CRUD lengkap ala javascript grid (navGrid)** — tombol `+ Tambah · Edit · Detail · Hapus`
   dengan **formulir modal**: validasi (`required`, angka), select untuk `options`,
   checkbox untuk `bool`, mode baca-saja untuk Detail; callback `onSave(row,isNew)`
   untuk persistensi (demo memakai `localStorage`). Aktifkan lewat `crud: true`.
